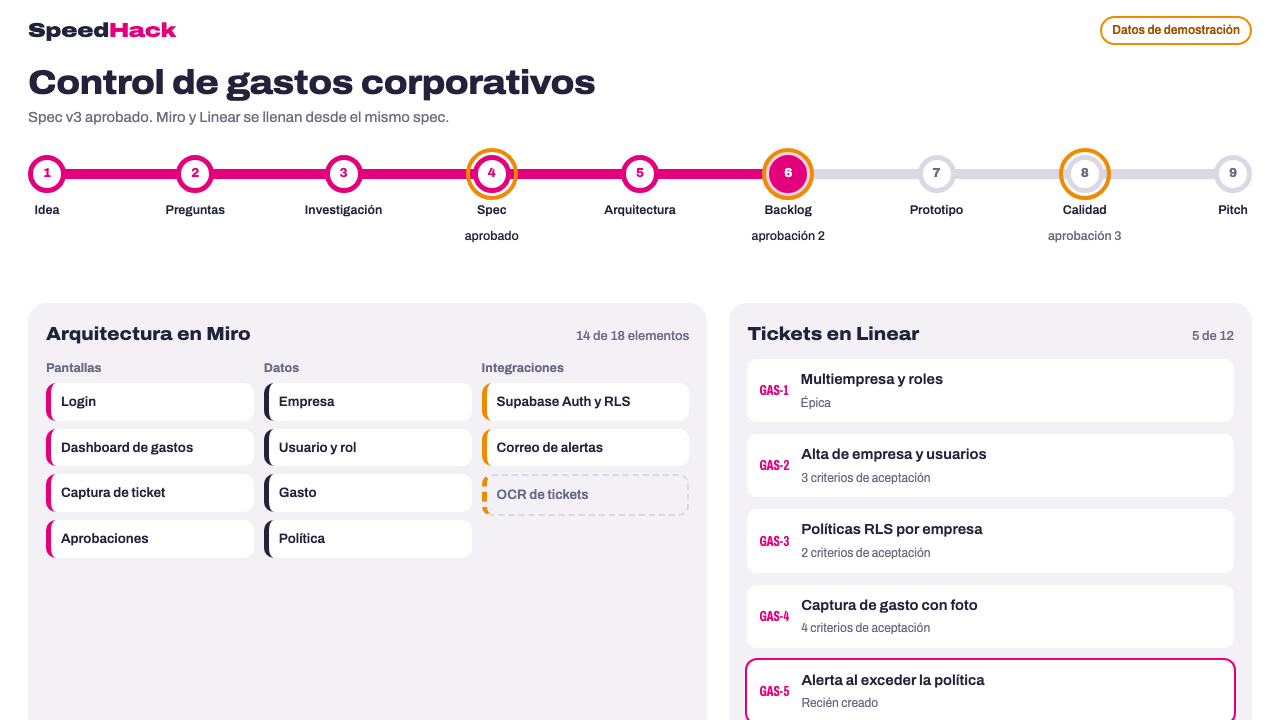
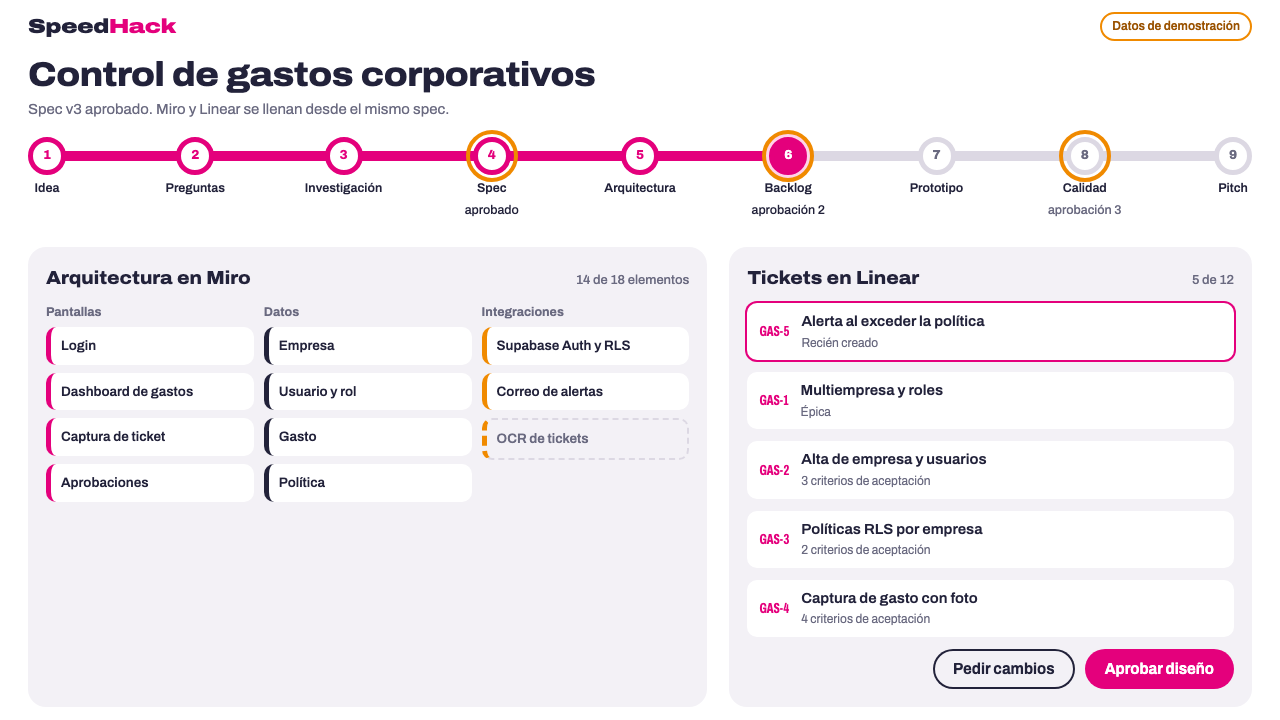
design-lock: apply design-critic fixes (wow fold, focus contrast, mobile metro label, Item code/meta)

diff --git a/web/src/styles/ui.css b/web/src/styles/ui.css
@@ -7,10 +7,10 @@
   padding: 12px 20px;
   cursor: pointer;
 }
-.sh-btn--primary { background: var(--sh-rosa); color: #fff; }
+.sh-btn--primary { background: var(--sh-rosa); color: var(--sh-bg); }
 .sh-btn--secondary { background: none; color: var(--sh-ink); box-shadow: inset 0 0 0 2px var(--sh-ink); }
 .sh-btn:disabled { opacity: 0.45; cursor: not-allowed; }
-.sh-btn:focus-visible { outline: 3px solid var(--sh-naranja); outline-offset: 3px; }
+.sh-btn:focus-visible { outline: 3px solid var(--sh-ink); outline-offset: 3px; }
 
 .sh-panel {
   background: var(--sh-surface);
@@ -34,6 +34,10 @@
 .sh-item--naranja { border-left-color: var(--sh-naranja); }
 .sh-item--pending { background: none; border: 2px dashed var(--sh-line); border-left: 5px dashed var(--sh-naranja); color: var(--sh-muted); }
 .sh-item--new { box-shadow: 0 0 0 2px var(--sh-rosa); }
+.sh-item--rich { display: grid; grid-template-columns: auto 1fr; gap: 2px 12px; align-items: center; font-weight: 400; }
+.sh-item__id { grid-row: span 2; font-weight: 700; font-stretch: 62%; font-size: var(--sh-text-base); color: var(--sh-rosa); }
+.sh-item__title { font-weight: 600; }
+.sh-item__meta { font-size: var(--sh-text-xs); color: var(--sh-muted); }
 
 .sh-header { display: flex; justify-content: space-between; align-items: baseline; gap: 12px; }
 .sh-header h2 { font-weight: 800; font-stretch: 112%; font-size: var(--sh-text-lg); }
@@ -43,8 +47,7 @@
 
 .sh-chip {
   display: inline-flex;
-  align-self: flex-start;
-  justify-self: start;
+  width: fit-content;
   align-items: center;
   gap: 6px;
   font-size: var(--sh-text-xs);
@@ -55,16 +58,18 @@
   color: var(--sh-ink);
 }
 .sh-chip--rosa { background: var(--sh-rosa-soft); }
+.sh-chip--ok, .sh-chip--error { font-weight: 700; background: var(--sh-raised); box-shadow: inset 0 0 0 2px currentColor; }
 .sh-chip--ok { color: var(--sh-ok); }
 .sh-chip--error { color: var(--sh-error); }
+.sh-chip--ok::before, .sh-chip--error::before { content: ""; width: 8px; height: 8px; border-radius: 50%; background: currentColor; }
 .sh-chip--demo { background: none; border: 2px solid var(--sh-naranja); color: var(--sh-naranja-ink); }
 
 .sh-stat { display: flex; flex-direction: column; gap: 2px; }
-.sh-stat strong { font-weight: 800; font-stretch: 62%; font-size: 40px; line-height: 1; font-variant-numeric: tabular-nums; }
+.sh-stat strong { font-weight: 800; font-stretch: 62%; font-size: var(--sh-text-2xl); line-height: 1; font-variant-numeric: tabular-nums; }
 .sh-stat span { font-size: var(--sh-text-sm); color: var(--sh-muted); }
 
 /* MetroLine: the run as a metro line; approvals are transfer stations */
-.sh-metro { position: relative; padding-bottom: 42px; }
+.sh-metro { position: relative; padding-bottom: 24px; }
 .sh-metro__rail {
   position: absolute;
   left: calc(var(--sh-station) / 2 - 5px);
@@ -81,8 +86,8 @@
   display: flex;
   flex-direction: column;
   align-items: center;
-  gap: 8px;
-  font-size: 12.5px;
+  gap: 4px;
+  font-size: var(--sh-text-xs);
   font-weight: 600;
   text-align: center;
   white-space: nowrap;
@@ -96,25 +101,26 @@
   display: grid;
   place-items: center;
   font-weight: 800;
-  font-size: 13px;
+  font-size: var(--sh-text-xs);
   color: var(--sh-muted);
 }
 .sh-metro li[data-state="done"] .sh-metro__dot { border-color: var(--sh-rosa); color: var(--sh-rosa); }
-.sh-metro li[data-state="current"] .sh-metro__dot { background: var(--sh-rosa); border-color: var(--sh-rosa); color: #fff; box-shadow: 0 0 0 6px var(--sh-rosa-soft); }
+.sh-metro li[data-state="current"] .sh-metro__dot { background: var(--sh-rosa); border-color: var(--sh-rosa); color: var(--sh-bg); box-shadow: 0 0 0 6px var(--sh-rosa-soft); }
 .sh-metro li[data-state="failed"] .sh-metro__dot { border-color: var(--sh-error); color: var(--sh-error); }
 .sh-metro li[data-gate] .sh-metro__dot { outline: 4px solid var(--sh-naranja); outline-offset: 3px; }
 .sh-metro__note { color: var(--sh-muted); font-weight: 500; }
+.sh-metro__mobile { display: none; }
 
 @media (prefers-reduced-motion: no-preference) {
   .sh-metro li[data-state="current"] .sh-metro__dot { animation: sh-pulse 1.6s ease-in-out infinite; }
-  @keyframes sh-pulse { 50% { box-shadow: 0 0 0 12px #ffd3ea00; } }
+  @keyframes sh-pulse { 50% { box-shadow: 0 0 0 12px color-mix(in srgb, var(--sh-rosa-soft) 0%, transparent); } }
 }
 
 @media (max-width: 820px) {
-  .sh-metro { padding-bottom: 30px; }
+  .sh-metro { padding-bottom: 0; }
   .sh-metro__rail { height: 8px; }
-  .sh-metro li { font-size: 0; }
-  .sh-metro li[data-state="current"] { font-size: 12px; }
+  .sh-metro li { font-size: 0; gap: 0; }
   .sh-metro__dot { border-width: 4px; font-size: 11px; }
   .sh-metro__note { display: none; }
+  .sh-metro__mobile { display: block; margin-top: 10px; font-size: var(--sh-text-sm); font-weight: 600; }
 }

diff --git a/web/public/design-lock/3.html b/web/public/design-lock/3.html
@@ -14,25 +14,25 @@
 }
 *{box-sizing:border-box;margin:0}
 body{background:var(--bg);color:var(--ink);font:15px/1.45 var(--font);min-height:100vh}
-header{display:flex;justify-content:space-between;align-items:center;padding:16px 28px;gap:14px;flex-wrap:wrap}
+header{display:flex;justify-content:space-between;align-items:center;padding:12px 28px;gap:14px;flex-wrap:wrap}
 .brand{font-weight:900;font-stretch:125%;font-size:20px;letter-spacing:-.01em}
 .brand i{font-style:normal;color:var(--rosa)}
 .demo{font-size:12px;font-weight:600;padding:4px 10px;border-radius:999px;border:2px solid var(--naranja);color:#9A5200}
 .hero{padding:4px 28px 0}
 h1{font-weight:800;font-stretch:112%;font-size:34px;line-height:1.05;letter-spacing:-.015em}
 .sub{color:var(--muted);margin-top:6px}
-.metro{position:relative;margin:26px 28px 8px;padding-bottom:42px}
+.metro{position:relative;margin:16px 28px 0;padding-bottom:24px}
 .metro .rail{position:absolute;left:14px;right:14px;top:14px;height:10px;border-radius:5px;background:var(--line)}
 .metro .rail b{display:block;height:100%;width:62%;border-radius:5px;background:var(--rosa)}
 .metro ol{position:relative;display:flex;justify-content:space-between;list-style:none;padding:0}
-.metro li{width:38px;display:flex;flex-direction:column;align-items:center;gap:8px;font-size:12.5px;font-weight:600;text-align:center;white-space:nowrap}
+.metro li{width:38px;display:flex;flex-direction:column;align-items:center;gap:4px;font-size:12.5px;font-weight:600;text-align:center;white-space:nowrap}
 .metro li span{width:38px;height:38px;border-radius:50%;background:var(--bg);border:5px solid var(--line);display:grid;place-items:center;font-weight:800;font-size:13px;color:var(--muted)}
 .metro li.d span{border-color:var(--rosa);color:var(--rosa)}
 .metro li.now span{background:var(--rosa);border-color:var(--rosa);color:#fff;box-shadow:0 0 0 6px #FFD3EA}
 .metro li.gate span{outline:4px solid var(--naranja);outline-offset:3px}
 .metro li em{font-style:normal;color:var(--muted);font-weight:500}
 .metro li.now em,.metro li.d em{color:var(--ink)}
-.grid{display:grid;grid-template-columns:1.3fr 1fr;gap:22px;padding:8px 28px 28px}
+.grid{display:grid;grid-template-columns:1.3fr 1fr;gap:22px;padding:4px 28px 28px}
 .panel{background:var(--surface);border-radius:18px;padding:18px;display:flex;flex-direction:column;gap:12px;min-width:0}
 .panel h2{font-weight:800;font-stretch:112%;font-size:18px;display:flex;justify-content:space-between;align-items:baseline}
 .panel h2 small{font-weight:500;font-stretch:100%;font-size:13px;color:var(--muted)}
@@ -41,7 +41,7 @@ h1{font-weight:800;font-stretch:112%;font-size:34px;line-height:1.05;letter-spac
 .it{background:var(--bg);border-radius:10px;padding:9px 10px;font-weight:600;font-size:13.5px;margin-bottom:8px;border-left:5px solid var(--rosa)}
 .it.data{border-left-color:var(--ink)} .it.int{border-left-color:var(--naranja)}
 .it.wait{border:2px dashed var(--line);border-left:5px dashed var(--naranja);color:var(--muted);background:none}
-.issue{display:grid;grid-template-columns:auto 1fr;gap:4px 12px;background:var(--bg);border-radius:10px;padding:10px 12px}
+.issue{display:grid;grid-template-columns:auto 1fr;gap:2px 12px;background:var(--bg);border-radius:10px;padding:8px 12px}
 .issue code{font:700 12px var(--font);font-stretch:62%;font-size:14px;color:var(--rosa);grid-row:span 2;align-self:center}
 .issue p{font-weight:600}
 .issue span{font-size:12px;color:var(--muted)}
@@ -108,11 +108,11 @@ button:focus-visible{outline:3px solid var(--naranja);outline-offset:3px}
   </section>
   <section class="panel">
     <h2>Tickets en Linear <small>5 de 12</small></h2>
+    <div class="issue new"><code>GAS-5</code><p>Alerta al exceder la política</p><span>Recién creado</span></div>
     <div class="issue"><code>GAS-1</code><p>Multiempresa y roles</p><span>Épica</span></div>
     <div class="issue"><code>GAS-2</code><p>Alta de empresa y usuarios</p><span>3 criterios de aceptación</span></div>
     <div class="issue"><code>GAS-3</code><p>Políticas RLS por empresa</p><span>2 criterios de aceptación</span></div>
     <div class="issue"><code>GAS-4</code><p>Captura de gasto con foto</p><span>4 criterios de aceptación</span></div>
-    <div class="issue new"><code>GAS-5</code><p>Alerta al exceder la política</p><span>Recién creado</span></div>
     <div class="actions">
       <button class="secondary">Pedir cambios</button>
       <button class="primary">Aprobar diseño</button>

diff --git a/web/src/lib/ui/Panel.tsx b/web/src/lib/ui/Panel.tsx
@@ -17,10 +17,30 @@ type ItemProps = HTMLAttributes<HTMLDivElement> & {
   tone?: "rosa" | "ink" | "naranja";
   pending?: boolean;
   fresh?: boolean;
+  code?: string; // external ID shown condensed in rosa, e.g. "GAS-5"
+  meta?: ReactNode; // second line, e.g. "3 criterios de aceptación"
 };
 
-// A row inside a Panel: a Miro element, a Linear issue, a research source.
-export function Item({ tone = "rosa", pending, fresh, className = "", ...rest }: ItemProps) {
-  const mods = [tone !== "rosa" && `sh-item--${tone}`, pending && "sh-item--pending", fresh && "sh-item--new"];
-  return <div className={["sh-item", ...mods, className].filter(Boolean).join(" ")} {...rest} />;
+// A row inside a Panel: a Miro element, a Linear issue (code + meta), a research source.
+export function Item({ tone = "rosa", pending, fresh, code, meta, className = "", children, ...rest }: ItemProps) {
+  const rich = code !== undefined || meta !== undefined;
+  const mods = [
+    tone !== "rosa" && `sh-item--${tone}`,
+    pending && "sh-item--pending",
+    fresh && "sh-item--new",
+    rich && "sh-item--rich",
+  ];
+  return (
+    <div className={["sh-item", ...mods, className].filter(Boolean).join(" ")} {...rest}>
+      {rich ? (
+        <>
+          {code && <span className="sh-item__id">{code}</span>}
+          <span className="sh-item__title">{children}</span>
+          {meta && <span className="sh-item__meta">{meta}</span>}
+        </>
+      ) : (
+        children
+      )}
+    </div>
+  );
 }

diff --git a/web/src/lib/ui/MetroLine.tsx b/web/src/lib/ui/MetroLine.tsx
@@ -40,6 +40,10 @@ export function MetroLine({ current, failed, notes = {} }: Props) {
           );
         })}
       </ol>
+      <p className="sh-metro__mobile">
+        Etapa {current} de 9: {STAGE_LABELS[current - 1]}
+        {GATES[current] && `, ${notes[current] ?? GATES[current]}`}
+      </p>
     </nav>
   );
 }

diff --git a/web/DESIGN.md b/web/DESIGN.md
@@ -24,19 +24,19 @@ Type: Archivo variable (Google Fonts). Titles 800 at `font-stretch: 112%`; IDs a
 ## Components (`web/src/lib/ui/`, import from `../../lib/ui` in a feature)
 - `MetroLine current={n}`: the run timeline. Use it on every run screen, at the top, full width. Gates after stages 4, 6, 8 are fixed in `GATES`.
 - `Title`, `SectionHeader title meta`: the project name, then each panel's heading with a count ("5 de 12").
-- `Panel title meta` + `Item tone pending fresh`: Miro elements (`rosa` screens, `ink` data, `naranja` integrations), Linear issues, research sources. `pending` = still arriving (dashed), `fresh` = just arrived (rosa ring).
+- `Panel title meta` + `Item tone pending fresh code meta`: Miro elements (`rosa` screens, `ink` data, `naranja` integrations), Linear issues, research sources. `pending` = still arriving (dashed), `fresh` = just arrived (rosa ring).
 - `Button variant="primary"`: only the action that advances the run (Aprobar, Empezar). One per screen. Everything else `secondary`.
 - `Chip tone`: small states (ok/error for quality checks, rosa for highlights).
-- `DemoBadge show={demo_data}`: required wherever data is recorded or simulated.
+- `DemoBadge show={demo_data}`: required wherever data is recorded or simulated; on a view it sits in the header, top-right.
 - `Stat value label`: costs, times, counts (condensed numerals).
 
 ## Usage rules
 - Every view reuses `MetroLine` and `Panel`; don't build another timeline or card style.
-- The wow screen (HACK-016) is two panels side by side: Miro 1.3fr, Linear 1fr; stacked under 820 px.
+- The wow screen (HACK-016) is two panels side by side: Miro 1.3fr, Linear 1fr; stacked under 820 px. Newest item first in Linear so the arrival is above the 720 px fold.
 - Motion: only the current station's pulse and items arriving one by one (≈150 ms stagger). Everything respects `prefers-reduced-motion`.
 - Copy in Spanish, sentence case, plain verbs ("Aprobar diseño", "Pedir cambios").
 
 ## Never
-1. Never a dark theme or a second brand color: rosa is the only accent; orange means approval or demo data, nothing else.
+1. Never a dark theme or a second brand color: rosa is the only accent; orange means approval, integrations or demo data, nothing else (and never as text or focus ring on white: use `--sh-naranja-ink` / `--sh-ink`).
 2. Never all-caps labels, gradients or drop shadows on cards.
 3. Never show a figure without its source or simulated data without `DemoBadge`.
